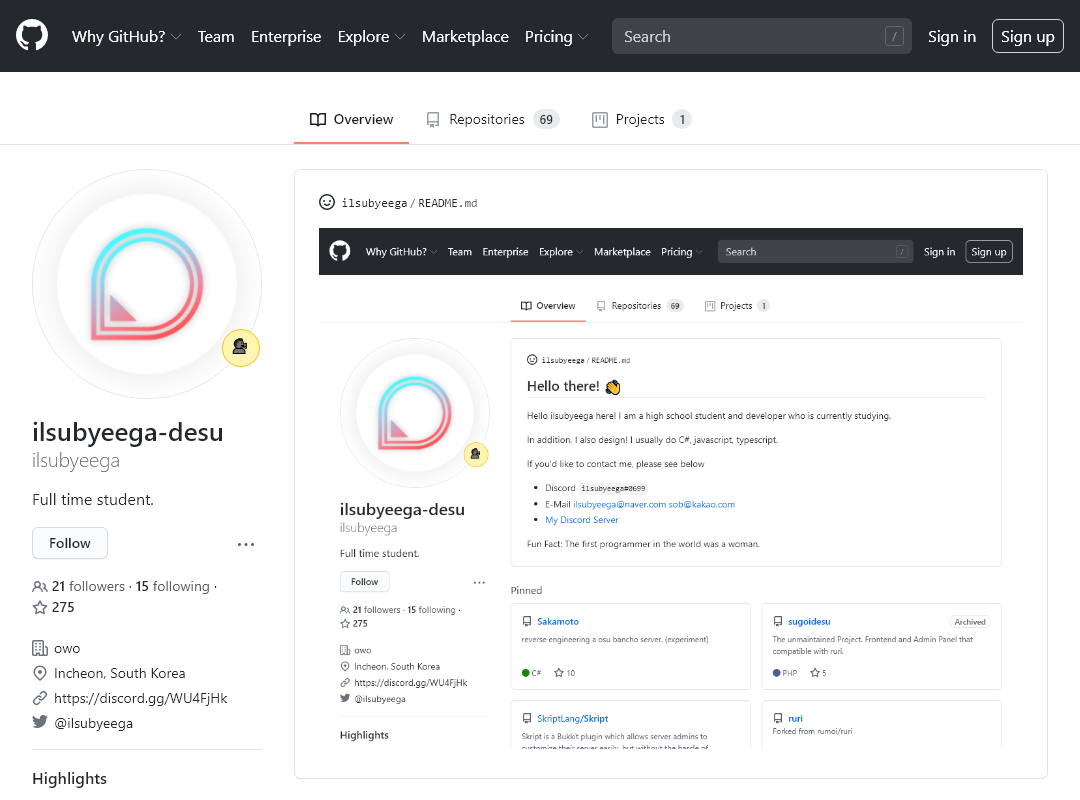
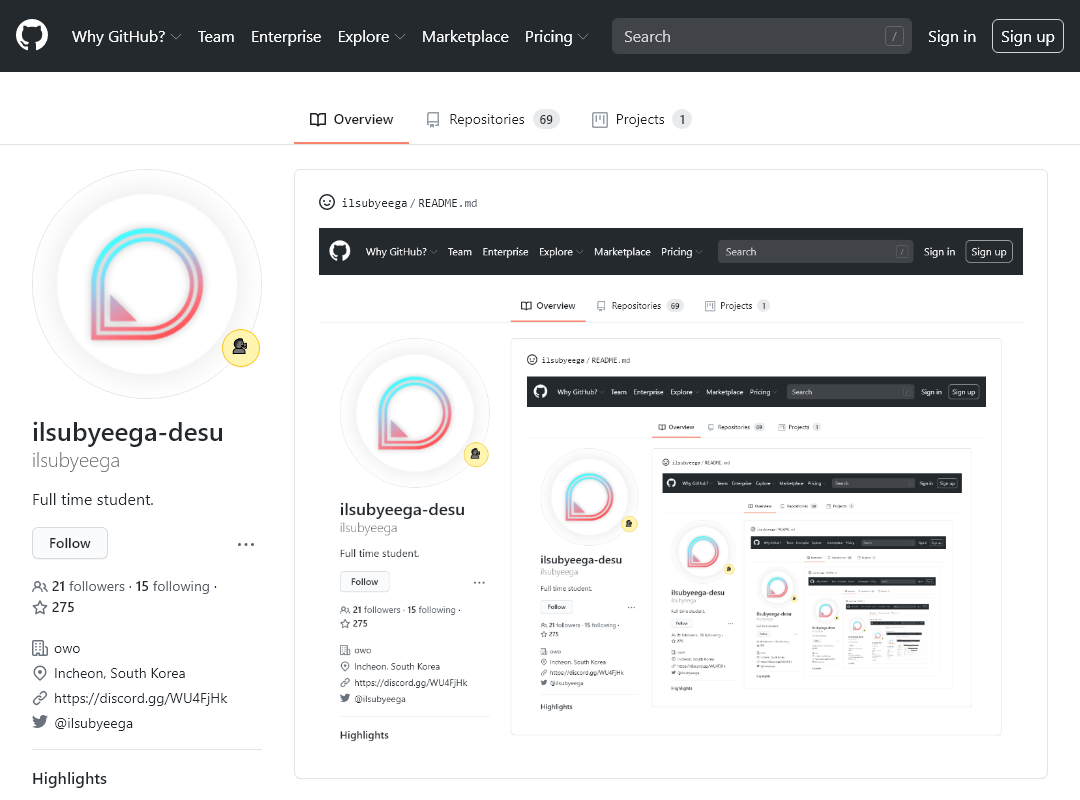
"adds new screenshot at depth 2"

diff --git a/README.md b/README.md
@@ -1,1 +1,1 @@
-![Woah!](https://github.com/ilsubyeega/ilsubyeega/blob/master/screenshot-3.png)
+![Woah!](https://github.com/ilsubyeega/ilsubyeega/blob/master/screenshot-2.png)
